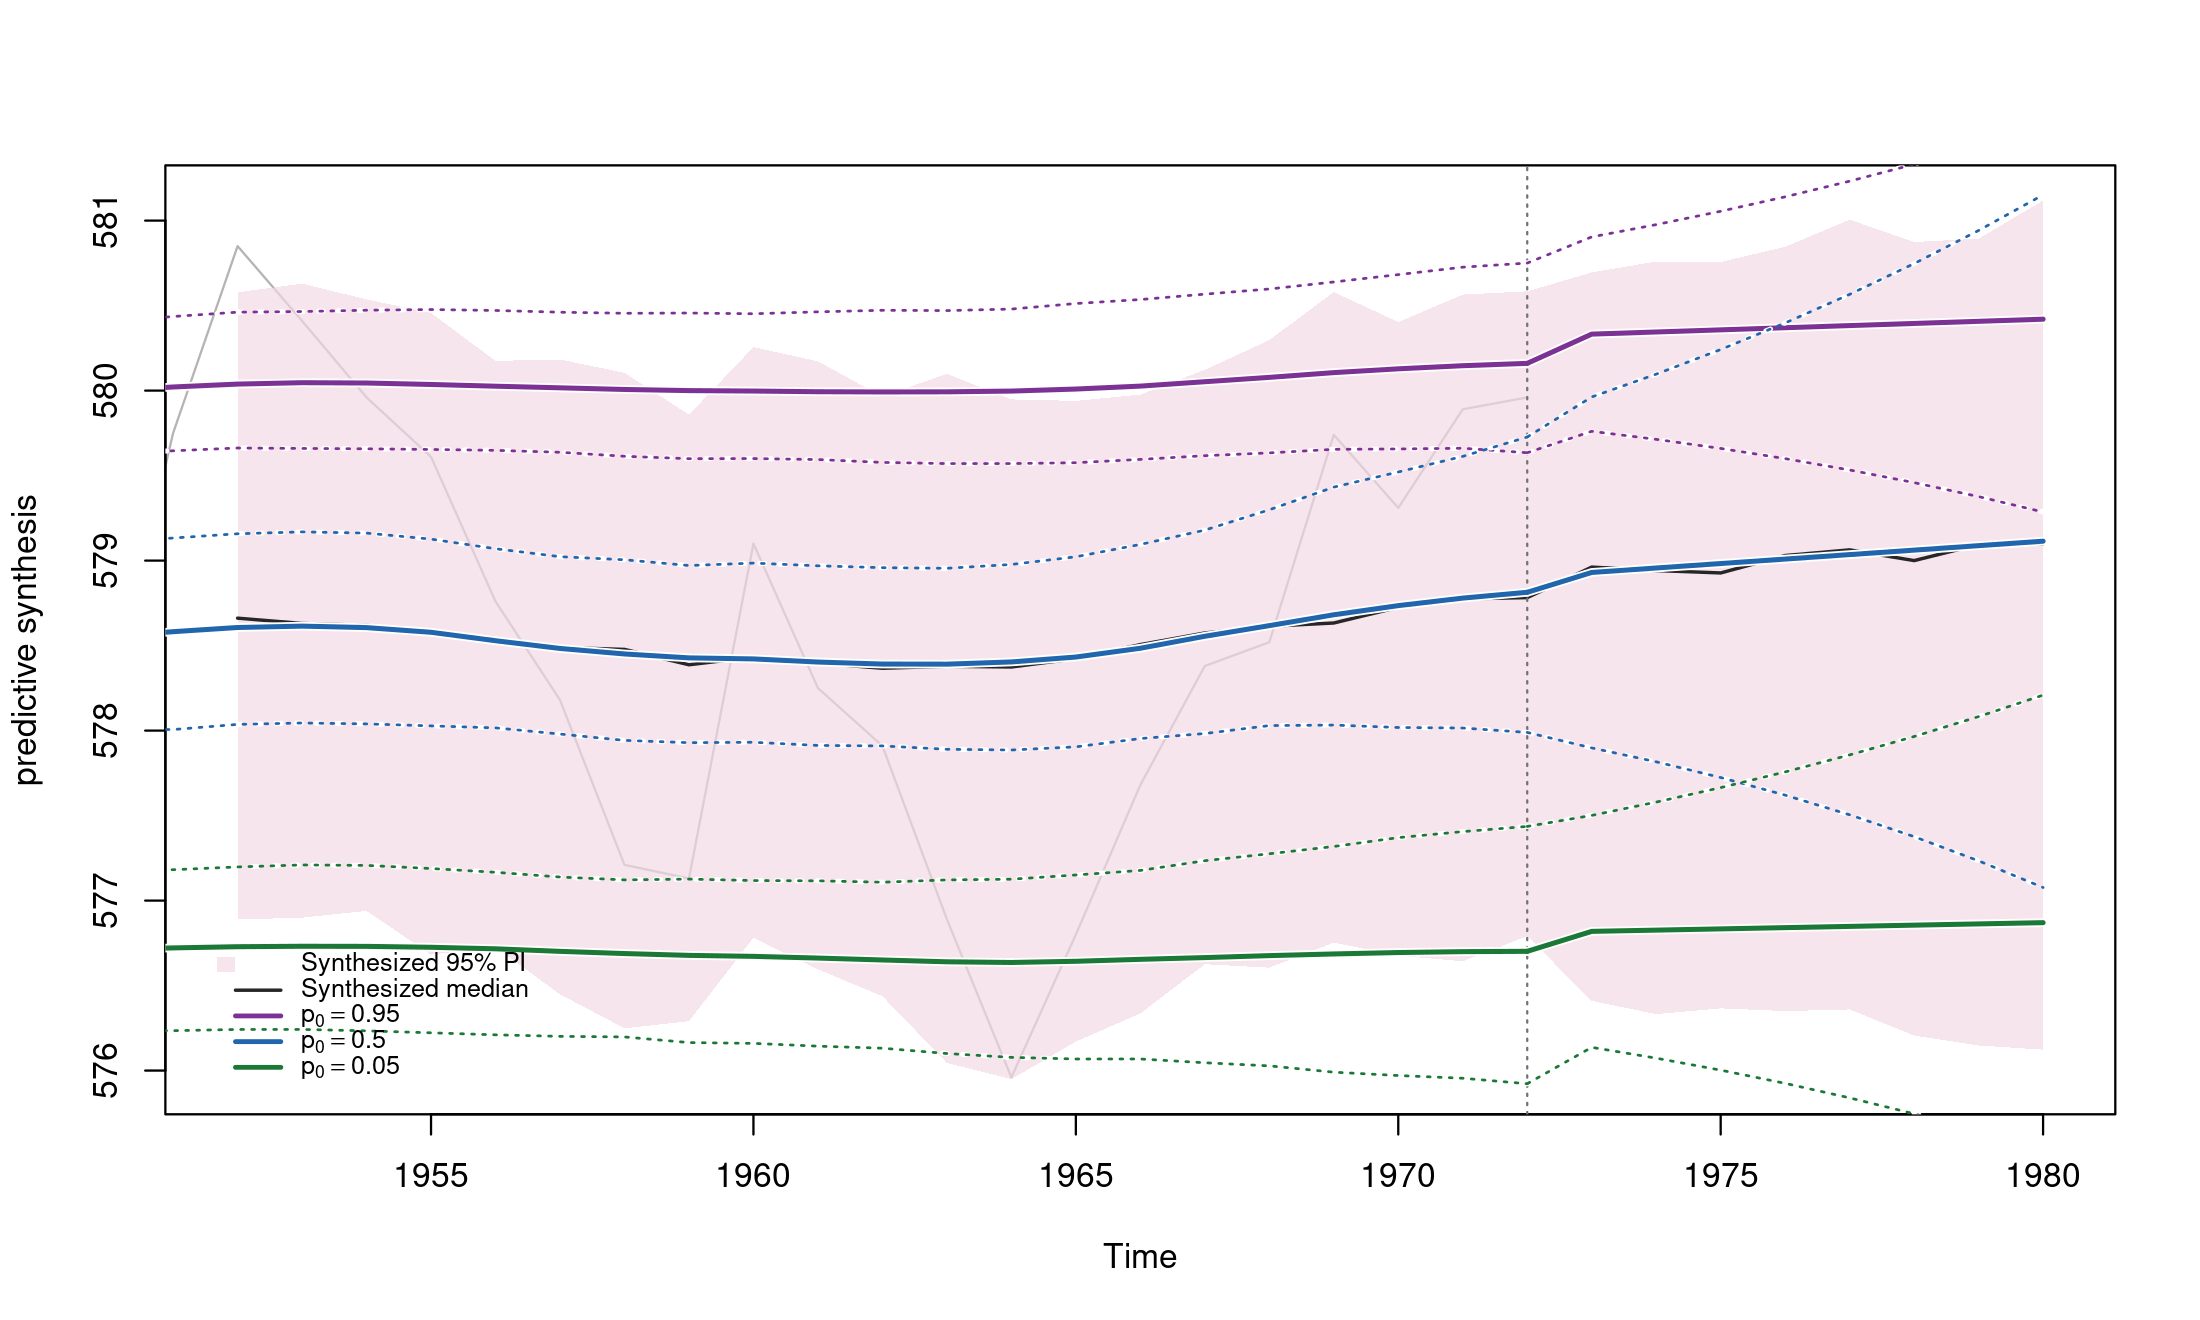
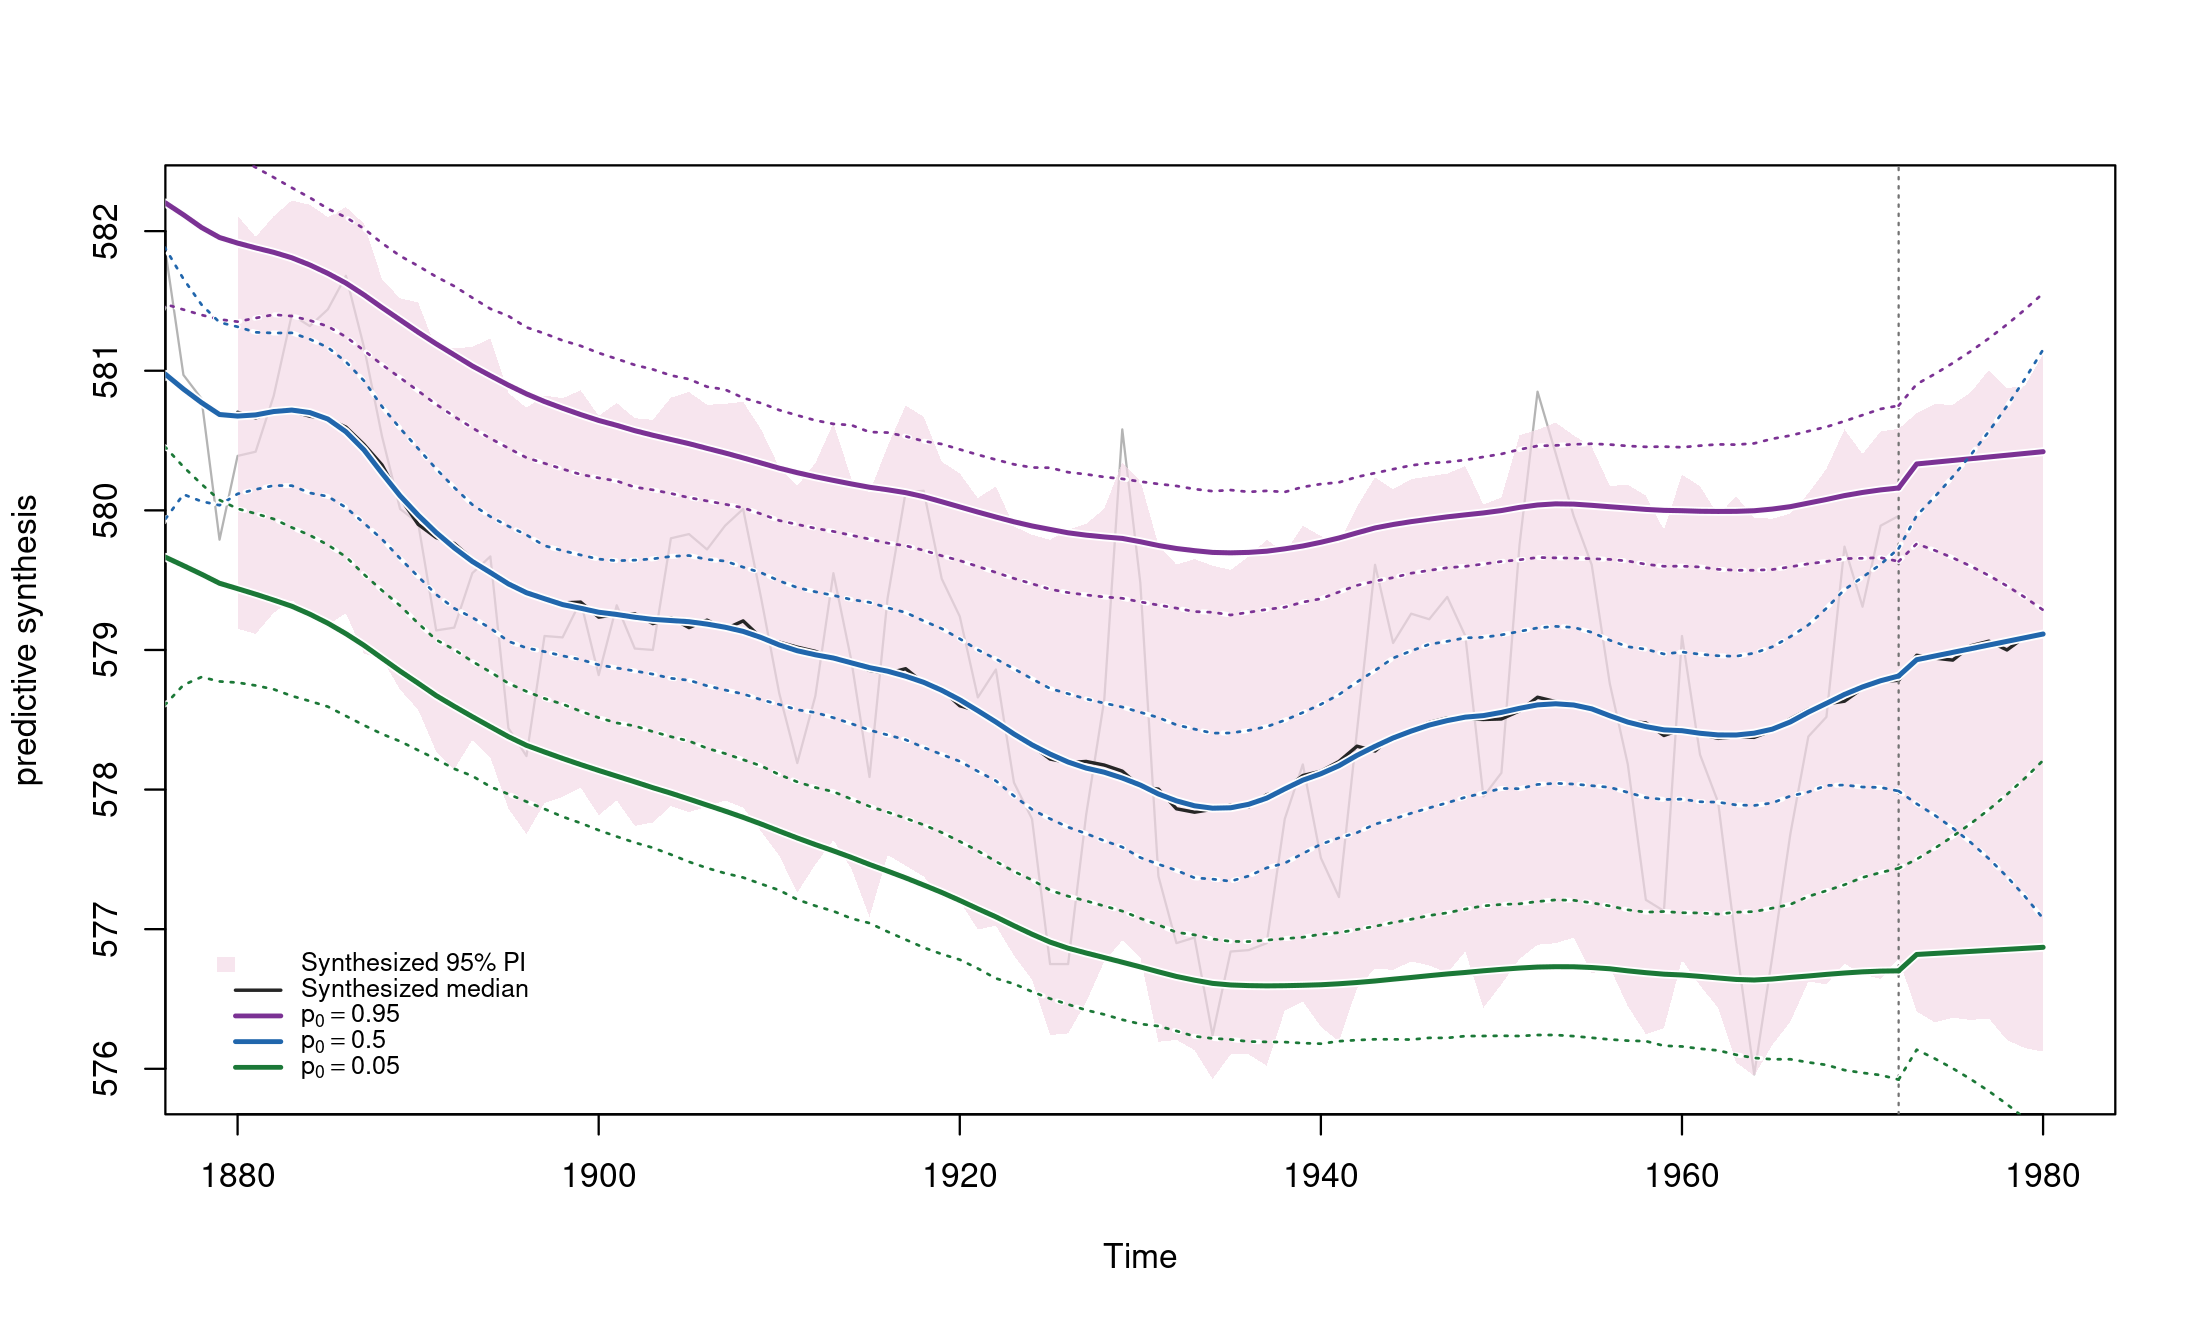
Widen Example 1 synthesis window

diff --git a/article4.tex b/article4.tex
@@ -558,7 +558,7 @@ R> syn.fore = exdqlm_synthesize_from_draws(
 \begin{figure}[!t]
 \centering
 \includegraphics[width=0.8\textwidth]{ex1synth.png}
-\caption{Example 1: Lake Huron. Synthesized posterior predictive distribution obtained from the fitted $0.05$, $0.50$, and $0.95$ quantile models. The shaded ribbon denotes the synthesized 95\% predictive interval over the late observed window and the eight-step forecast horizon. \aA{Colored lines and dotted intervals show the corresponding smoothed quantile estimates over the observed period and forecast quantile estimates over the future horizon from the individual fitted models.}}
+\caption{Example 1: Lake Huron. Synthesized posterior predictive distribution obtained from the fitted $0.05$, $0.50$, and $0.95$ quantile models. The shaded ribbon denotes the synthesized 95\% predictive interval over the observed period and the eight-step forecast horizon. \aA{Colored lines and dotted intervals show the corresponding smoothed quantile estimates over the observed period and forecast quantile estimates over the future horizon from the individual fitted models.}}
 \label{fig:ex1synth}
 \end{figure}
 
